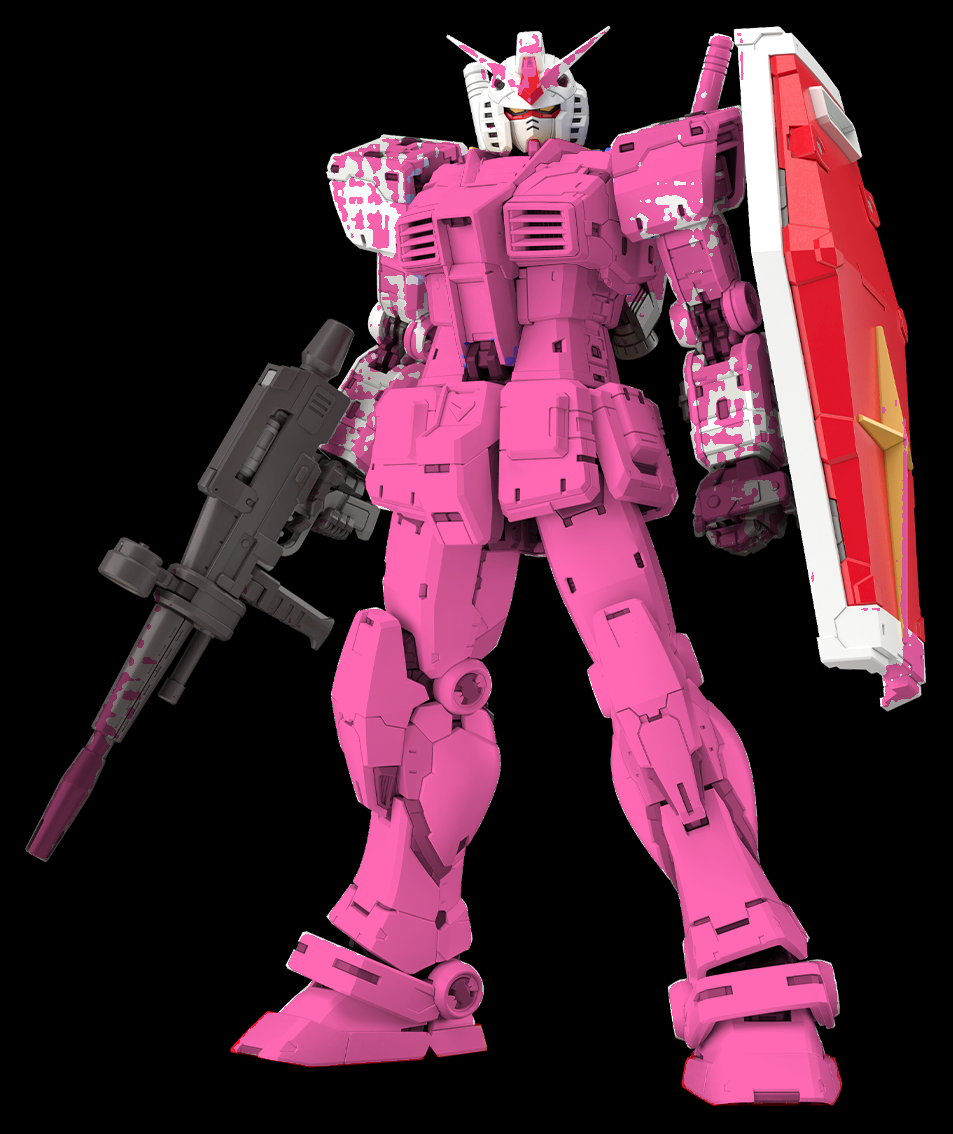
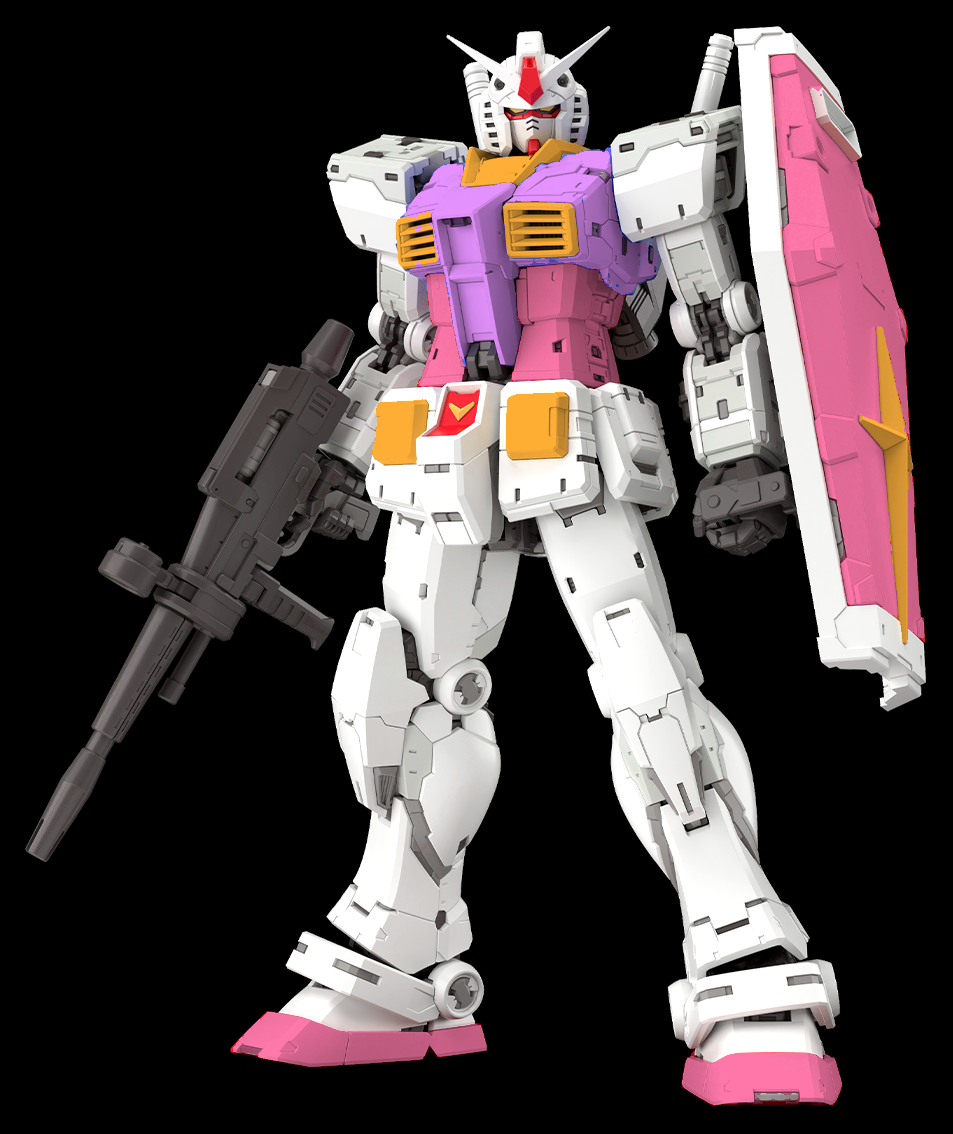
Update demo

diff --git a/frontend/next.config.js b/frontend/next.config.js
@@ -2,5 +2,5 @@
 const nextConfig = {
   reactStrictMode: true,
 }
-
+ 
 module.exports = nextConfig 

diff --git a/README.md b/README.md
@@ -26,10 +26,27 @@ Perfect for Gunpla builders, hobbyists, and anyone looking to experiment with co
 
 ## 🚀 Live Demo
 
-**(Suggestion: Record a short GIF or video showcasing the workflow: upload -> click points -> generate masks -> select a staging mask -> pick color -> recolor -> download. Embed it here!)**
+Here's a glimpse of the Gunpla Interactive Colorizer in action:
 
-Example:
-`![Gunpla Colorizer Demo GIF](link_to_your_demo_image.gif)`
+**1. Upload Your Gunpla Image:**
+Simply drag & drop or select your image file.
+
+`![Step 1: Upload Image](assets/demo-step1-upload.png)` 
+*(Screenshot showing the initial UI with the image upload area)*
+
+**2. Interactive Point Prompting & Mask Generation:**
+Click foreground (+) and background (-) points. The AI generates mask proposals for you to choose from. The yellow highlighted areas are previews of the generated masks upon hovering.
+
+`![Step 2: Point Prompting & Mask Proposals](assets/demo-step2-prompting.png)` 
+*(Screenshot showing points placed on the Gunpla and the "New Mask Proposals" section with hover previews)*
+
+**3. Recolor and Finalize:**
+Select a mask, pick your desired color, and see your Gunpla transform! The chosen color (pink in this example) is applied to the selected chest piece.
+
+`![Step 3: Recolor Mask](assets/demo-step3-recoloring.png)` 
+*(Screenshot showing a part of the Gunpla recolored and the "Final Masks" list)*
+
+<!-- **(Suggestion: For an even better demo, consider recording a short GIF or video showcasing the entire workflow and replacing the static images above!)** -->
 
 ## 🛠 Tech Stack
 
